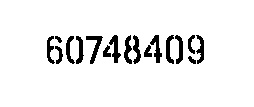
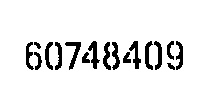
add gaussian blur

Changed region(s): [[0.1127, 0.3084, 0.8732, 0.6729]]

diff --git a/src/main/java/houses/HouseNumberRecognition.java b/src/main/java/houses/HouseNumberRecognition.java
@@ -1,0 +1,234 @@
+package houses;
+
+
+import org.apache.log4j.BasicConfigurator;
+import org.bytedeco.javacv.CanvasFrame;
+import org.bytedeco.javacv.OpenCVFrameConverter;
+import org.datavec.api.records.metadata.RecordMetaDataImageURI;
+import org.datavec.api.split.FileSplit;
+import org.datavec.image.loader.NativeImageLoader;
+import org.datavec.image.recordreader.objdetect.ObjectDetectionRecordReader;
+import org.datavec.image.recordreader.objdetect.impl.SvhnLabelProvider;
+import org.deeplearning4j.datasets.datavec.RecordReaderDataSetIterator;
+import org.deeplearning4j.datasets.fetchers.DataSetType;
+import org.deeplearning4j.datasets.fetchers.SvhnDataFetcher;
+import org.deeplearning4j.nn.api.OptimizationAlgorithm;
+import org.deeplearning4j.nn.conf.ConvolutionMode;
+import org.deeplearning4j.nn.conf.GradientNormalization;
+import org.deeplearning4j.nn.conf.WorkspaceMode;
+import org.deeplearning4j.nn.conf.inputs.InputType;
+import org.deeplearning4j.nn.conf.layers.ConvolutionLayer;
+import org.deeplearning4j.nn.conf.layers.objdetect.Yolo2OutputLayer;
+import org.deeplearning4j.nn.graph.ComputationGraph;
+import org.deeplearning4j.nn.layers.objdetect.DetectedObject;
+import org.deeplearning4j.nn.transferlearning.FineTuneConfiguration;
+import org.deeplearning4j.nn.transferlearning.TransferLearning;
+import org.deeplearning4j.nn.weights.WeightInit;
+import org.deeplearning4j.optimize.listeners.ScoreIterationListener;
+import org.deeplearning4j.util.ModelSerializer;
+import org.deeplearning4j.zoo.model.TinyYOLO;
+import org.nd4j.linalg.activations.Activation;
+import org.nd4j.linalg.api.ndarray.INDArray;
+import org.nd4j.linalg.dataset.api.preprocessor.ImagePreProcessingScaler;
+import org.nd4j.linalg.factory.Nd4j;
+import org.nd4j.linalg.learning.config.Adam;
+import org.slf4j.Logger;
+import org.slf4j.LoggerFactory;
+
+import java.io.File;
+import java.util.List;
+import java.util.Random;
+
+import org.bytedeco.opencv.opencv_core.*;
+import static org.bytedeco.opencv.global.opencv_core.*;
+import static org.bytedeco.opencv.global.opencv_imgproc.*;
+
+/**
+ * Example transfer learning from a Tiny YOLO model pretrained on ImageNet and Pascal VOC
+ * to perform object detection with bounding boxes on The Street View House Numbers (SVHN) Dataset.
+ * <p>
+ * References: <br>
+ * - YOLO: Real-Time Object Detection: https://pjreddie.com/darknet/yolo/ <br>
+ * - The Street View House Numbers (SVHN) Dataset: http://ufldl.stanford.edu/housenumbers/ <br>
+ * <p>
+ * Please note, cuDNN should be used to obtain reasonable performance: https://deeplearning4j.org/cudnn
+ *
+ * @author saudet
+ */
+public class HouseNumberRecognition {
+    private static final Logger log = LoggerFactory.getLogger(HouseNumberRecognition.class);
+
+    // Enable different colour bounding box for different classes
+    public static final Scalar RED = RGB(255.0, 0, 0);
+    public static final Scalar GREEN = RGB(0, 255.0, 0);
+    public static final Scalar BLUE = RGB(0, 0, 255.0);
+    public static final Scalar YELLOW = RGB(255.0, 255.0, 0);
+    public static final Scalar CYAN = RGB(0, 255.0, 255.0);
+    public static final Scalar MAGENTA = RGB(255.0, 0.0, 255.0);
+    public static final Scalar ORANGE = RGB(255.0, 128.0, 0);
+    public static final Scalar PINK = RGB(255.0, 192.0, 203.0);
+    public static final Scalar LIGHTBLUE = RGB(153.0, 204.0, 255.0);
+    public static final Scalar VIOLET = RGB(238.0, 130.0, 238.0);
+
+    public static void main(String[] args) throws java.lang.Exception {
+
+        BasicConfigurator.configure();
+
+        // parameters matching the pretrained TinyYOLO model
+        int width = 416;
+        int height = 416;
+        int nChannels = 3;
+        int gridWidth = 13;
+        int gridHeight = 13;
+
+        // number classes (digits) for the SVHN datasets
+        int nClasses = 10;
+
+        // parameters for the Yolo2OutputLayer
+        int nBoxes = 5;
+        double lambdaNoObj = 0.5;
+        double lambdaCoord = 1.0;
+        double[][] priorBoxes = {{2, 5}, {2.5, 6}, {3, 7}, {3.5, 8}, {4, 9}};
+        double detectionThreshold = 0.5;
+
+        // parameters for the training phase
+        int batchSize = 10;
+        int nEpochs = 20;
+        double learningRate = 1e-4;
+
+        int seed = 123;
+        Random rng = new Random(seed);
+
+        SvhnDataFetcher fetcher = new SvhnDataFetcher();
+        File trainDir = fetcher.getDataSetPath(DataSetType.TRAIN);
+        File testDir = fetcher.getDataSetPath(DataSetType.TEST);
+
+
+        log.info("Load data...");
+
+        FileSplit trainData = new FileSplit(trainDir, NativeImageLoader.ALLOWED_FORMATS, rng);
+        FileSplit testData = new FileSplit(testDir, NativeImageLoader.ALLOWED_FORMATS, rng);
+
+        ObjectDetectionRecordReader recordReaderTrain = new ObjectDetectionRecordReader(height, width, nChannels,
+                gridHeight, gridWidth, new SvhnLabelProvider(trainDir));
+        recordReaderTrain.initialize(trainData);
+
+        ObjectDetectionRecordReader recordReaderTest = new ObjectDetectionRecordReader(height, width, nChannels,
+                gridHeight, gridWidth, new SvhnLabelProvider(testDir));
+        recordReaderTest.initialize(testData);
+
+        // ObjectDetectionRecordReader performs regression, so we need to specify it here
+        RecordReaderDataSetIterator train = new RecordReaderDataSetIterator(recordReaderTrain, batchSize, 1, 1, true);
+        train.setPreProcessor(new ImagePreProcessingScaler(0, 1));
+
+        RecordReaderDataSetIterator test = new RecordReaderDataSetIterator(recordReaderTest, 1, 1, 1, true);
+        test.setPreProcessor(new ImagePreProcessingScaler(0, 1));
+
+
+        ComputationGraph model;
+        String modelFilename = "data/svhnmodel.zip";
+
+        if (new File(modelFilename).exists()) {
+            log.info("Load model...");
+
+            model = ComputationGraph.load(new File(modelFilename), true);
+        } else {
+            log.info("Build model...");
+
+            ComputationGraph pretrained = (ComputationGraph)TinyYOLO.builder().build().initPretrained();
+            INDArray priors = Nd4j.create(priorBoxes);
+
+            FineTuneConfiguration fineTuneConf = new FineTuneConfiguration.Builder()
+                    .seed(seed)
+                    .optimizationAlgo(OptimizationAlgorithm.STOCHASTIC_GRADIENT_DESCENT)
+                    .gradientNormalization(GradientNormalization.RenormalizeL2PerLayer)
+                    .gradientNormalizationThreshold(1.0)
+                    .updater(new Adam.Builder().learningRate(learningRate).build())
+                    //.updater(new Nesterovs.Builder().learningRate(learningRate).momentum(lrMomentum).build())
+                    .l2(0.00001)
+                    .activation(Activation.IDENTITY)
+                    .trainingWorkspaceMode(WorkspaceMode.ENABLED)
+                    .inferenceWorkspaceMode(WorkspaceMode.ENABLED)
+                    .build();
+
+            model = new TransferLearning.GraphBuilder(pretrained)
+                    .fineTuneConfiguration(fineTuneConf)
+                    .removeVertexKeepConnections("conv2d_9")
+                    .removeVertexKeepConnections("outputs")
+                    .addLayer("convolution2d_9",
+                            new ConvolutionLayer.Builder(1,1)
+                                    .nIn(1024)
+                                    .nOut(nBoxes * (5 + nClasses))
+                                    .stride(1,1)
+                                    .convolutionMode(ConvolutionMode.Same)
+                                    .weightInit(WeightInit.XAVIER)
+                                    .activation(Activation.IDENTITY)
+                                    .build(),
+                            "leaky_re_lu_8")
+                    .addLayer("outputs",
+                            new Yolo2OutputLayer.Builder()
+                                    .lambdaNoObj(lambdaNoObj)
+                                    .lambdaCoord(lambdaCoord)
+                                    .boundingBoxPriors(priors)
+                                    .build(),
+                            "convolution2d_9")
+                    .setOutputs("outputs")
+                    .build();
+            System.out.println(model.summary(InputType.convolutional(height, width, nChannels)));
+
+
+            log.info("Train model...");
+
+            model.setListeners(new ScoreIterationListener(1));
+            model.fit(train, nEpochs);
+
+            log.info("Save model...");
+            ModelSerializer.writeModel(model, modelFilename, true);
+        }
+
+        // visualize results on the test set
+        NativeImageLoader imageLoader = new NativeImageLoader();
+        CanvasFrame frame = new CanvasFrame("HouseNumberDetection");
+        OpenCVFrameConverter.ToMat converter = new OpenCVFrameConverter.ToMat();
+        org.deeplearning4j.nn.layers.objdetect.Yolo2OutputLayer yout =
+                (org.deeplearning4j.nn.layers.objdetect.Yolo2OutputLayer)model.getOutputLayer(0);
+        List<String> labels = train.getLabels();
+        test.setCollectMetaData(true);
+        Scalar[] colormap = {RED,BLUE,GREEN,CYAN,YELLOW,MAGENTA,ORANGE,PINK,LIGHTBLUE,VIOLET};
+
+        while (test.hasNext() && frame.isVisible()) {
+            org.nd4j.linalg.dataset.DataSet ds = test.next();
+            RecordMetaDataImageURI metadata = (RecordMetaDataImageURI)ds.getExampleMetaData().get(0);
+            INDArray features = ds.getFeatures();
+            INDArray results = model.outputSingle(features);
+            List<DetectedObject> objs = yout.getPredictedObjects(results, detectionThreshold);
+            File file = new File(metadata.getURI());
+            log.info(file.getName() + ": " + objs);
+
+            Mat mat = imageLoader.asMat(features);
+            Mat convertedMat = new Mat();
+            mat.convertTo(convertedMat, CV_8U, 255, 0);
+            int w = metadata.getOrigW() * 2;
+            int h = metadata.getOrigH() * 2;
+            Mat image = new Mat();
+            resize(convertedMat, image, new Size(w, h));
+            for (DetectedObject obj : objs) {
+                double[] xy1 = obj.getTopLeftXY();
+                double[] xy2 = obj.getBottomRightXY();
+                String label = labels.get(obj.getPredictedClass());
+                int x1 = (int) Math.round(w * xy1[0] / gridWidth);
+                int y1 = (int) Math.round(h * xy1[1] / gridHeight);
+                int x2 = (int) Math.round(w * xy2[0] / gridWidth);
+                int y2 = (int) Math.round(h * xy2[1] / gridHeight);
+                rectangle(image, new Point(x1, y1), new Point(x2, y2), colormap[obj.getPredictedClass()]);
+                putText(image, label, new Point(x1 + 2, y2 - 2), FONT_HERSHEY_DUPLEX, 1, colormap[obj.getPredictedClass()]);
+
+            }
+            frame.setTitle(new File(metadata.getURI()).getName() + " - HouseNumberDetection");
+            frame.setCanvasSize(w, h);
+            frame.showImage(converter.convert(image));
+            frame.waitKey();
+        }
+        frame.dispose();
+    }
+}

diff --git a/src/main/java/digitrecognition/Application.java b/src/main/java/digitrecognition/Application.java
@@ -66,7 +66,7 @@ import static org.bytedeco.opencv.helper.opencv_imgcodecs.cvLoadImage;
 public class Application {
 
     private static MultiLayerNetwork restored;
-    private final static String IMAGEPATH = "samples/sample6-1.jpg";
+    private final static String IMAGEPATH = "samples/sample18.jpg";
     private final static String[] DIGITS = {"0", "1", "2", "3", "4", "5", "6", "7", "8", "9"};
 
     public Application() {
@@ -111,12 +111,19 @@ public class Application {
 
         /*Load image in grayscale mode*/
         IplImage image = cvLoadImage(IMAGEPATH, 0);
-        imwrite("samples/gray.jpg", new Mat(image)); // Save gray version of image*/
+        //imwrite("samples/gray.jpg", new Mat(image)); // Save gray version of image*/
+
+
+        /*Gaussian blur*/
+        Mat filtered = new Mat();
+        GaussianBlur(new Mat(image), filtered, new Size(5,5), 0);
+        IplImage filteredIm = new IplImage(filtered);
+        imwrite("samples/filtered.jpg", new Mat(filteredIm));
 
         /*Binarising Image*/
-        IplImage binimg = cvCreateImage(image.asCvMat().cvSize(), IPL_DEPTH_8U, 1);
-        cvThreshold(image, binimg, 0, 255, CV_THRESH_OTSU);
-        imwrite("samples/binarise.jpg", new Mat(binimg)); // Save binarised version of image*/
+        IplImage binimg = cvCreateImage(filteredIm.asCvMat().cvSize(), IPL_DEPTH_8U, 1);
+        cvThreshold(filteredIm, binimg, 0, 255, CV_THRESH_OTSU);
+        //imwrite("samples/binarise.jpg", new Mat(binimg)); // Save binarised version of image*/
 
         /*Invert image */
         Mat inverted = new Mat();
@@ -125,15 +132,15 @@ public class Application {
         imwrite("samples/invert.jpg", new Mat(inverimg)); // Save dilated version of image*/
 
 
-        /*Dilate image to increase the thickness of each digit*/
-        IplImage dilated = cvCreateImage(inverimg.asCvMat().cvSize(), IPL_DEPTH_8U, 1);
-        /*opencv_imgproc.cvDilate(inverimg, dilated, null, 1);
-        /*imwrite("samples/dilated.jpg", new Mat(dilated)); // Save dilated version of image*/
+//        /*Dilate image to increase the thickness of each digit*/
+//        IplImage dilated = cvCreateImage(inverimg.asCvMat().cvSize(), IPL_DEPTH_8U, 1);
+//        opencv_imgproc.cvDilate(inverimg, dilated, null, 1);
+//        imwrite("samples/dilated.jpg", new Mat(dilated)); // Save dilated version of image*/
 
         /*Find countour */
         CvMemStorage storage = cvCreateMemStorage(0);
         CvSeq contours = new CvSeq();
-        cvFindContours(dilated.clone(), storage, contours, Loader.sizeof(CvContour.class), CV_RETR_EXTERNAL, CV_CHAIN_APPROX_SIMPLE, cvPoint(0, 0));
+        cvFindContours(inverimg.clone(), storage, contours, Loader.sizeof(CvContour.class), CV_RETR_EXTERNAL, CV_CHAIN_APPROX_SIMPLE, cvPoint(0, 0));
         CvSeq ptr = new CvSeq();
         List<Rect> rects = new ArrayList<>();
         for (ptr = contours; ptr != null; ptr = ptr.h_next()) {
@@ -150,7 +157,7 @@ public class Application {
 
         for (int i = 0; i < rects.size(); i++) {
             Rect rect = rects.get(i);
-            Mat digit = new Mat(dilated).apply(rect);
+            Mat digit = new Mat(inverimg).apply(rect);
             copyMakeBorder(digit, digit, 10, 10, 10, 10, BORDER_CONSTANT, new Scalar(0, 0, 0, 0));
             resize(digit, digit, new Size(28, 28));
             NativeImageLoader loader = new NativeImageLoader(28, 28, 1);

diff --git a/src/main/java/digitrecognition/NetworkTrainer.java b/src/main/java/digitrecognition/NetworkTrainer.java
@@ -3,8 +3,8 @@ package digitrecognition;
 import java.io.File;
 import java.util.Random;
 
-import mnistdatareader.MnistDataReader;
-import mnistdatareader.MnistMatrix;
+//import mnistdatareader.MnistDataReader;
+//import mnistdatareader.MnistMatrix;
 import org.apache.log4j.BasicConfigurator;
 import org.datavec.api.io.labels.ParentPathLabelGenerator;
 import org.datavec.api.split.FileSplit;
